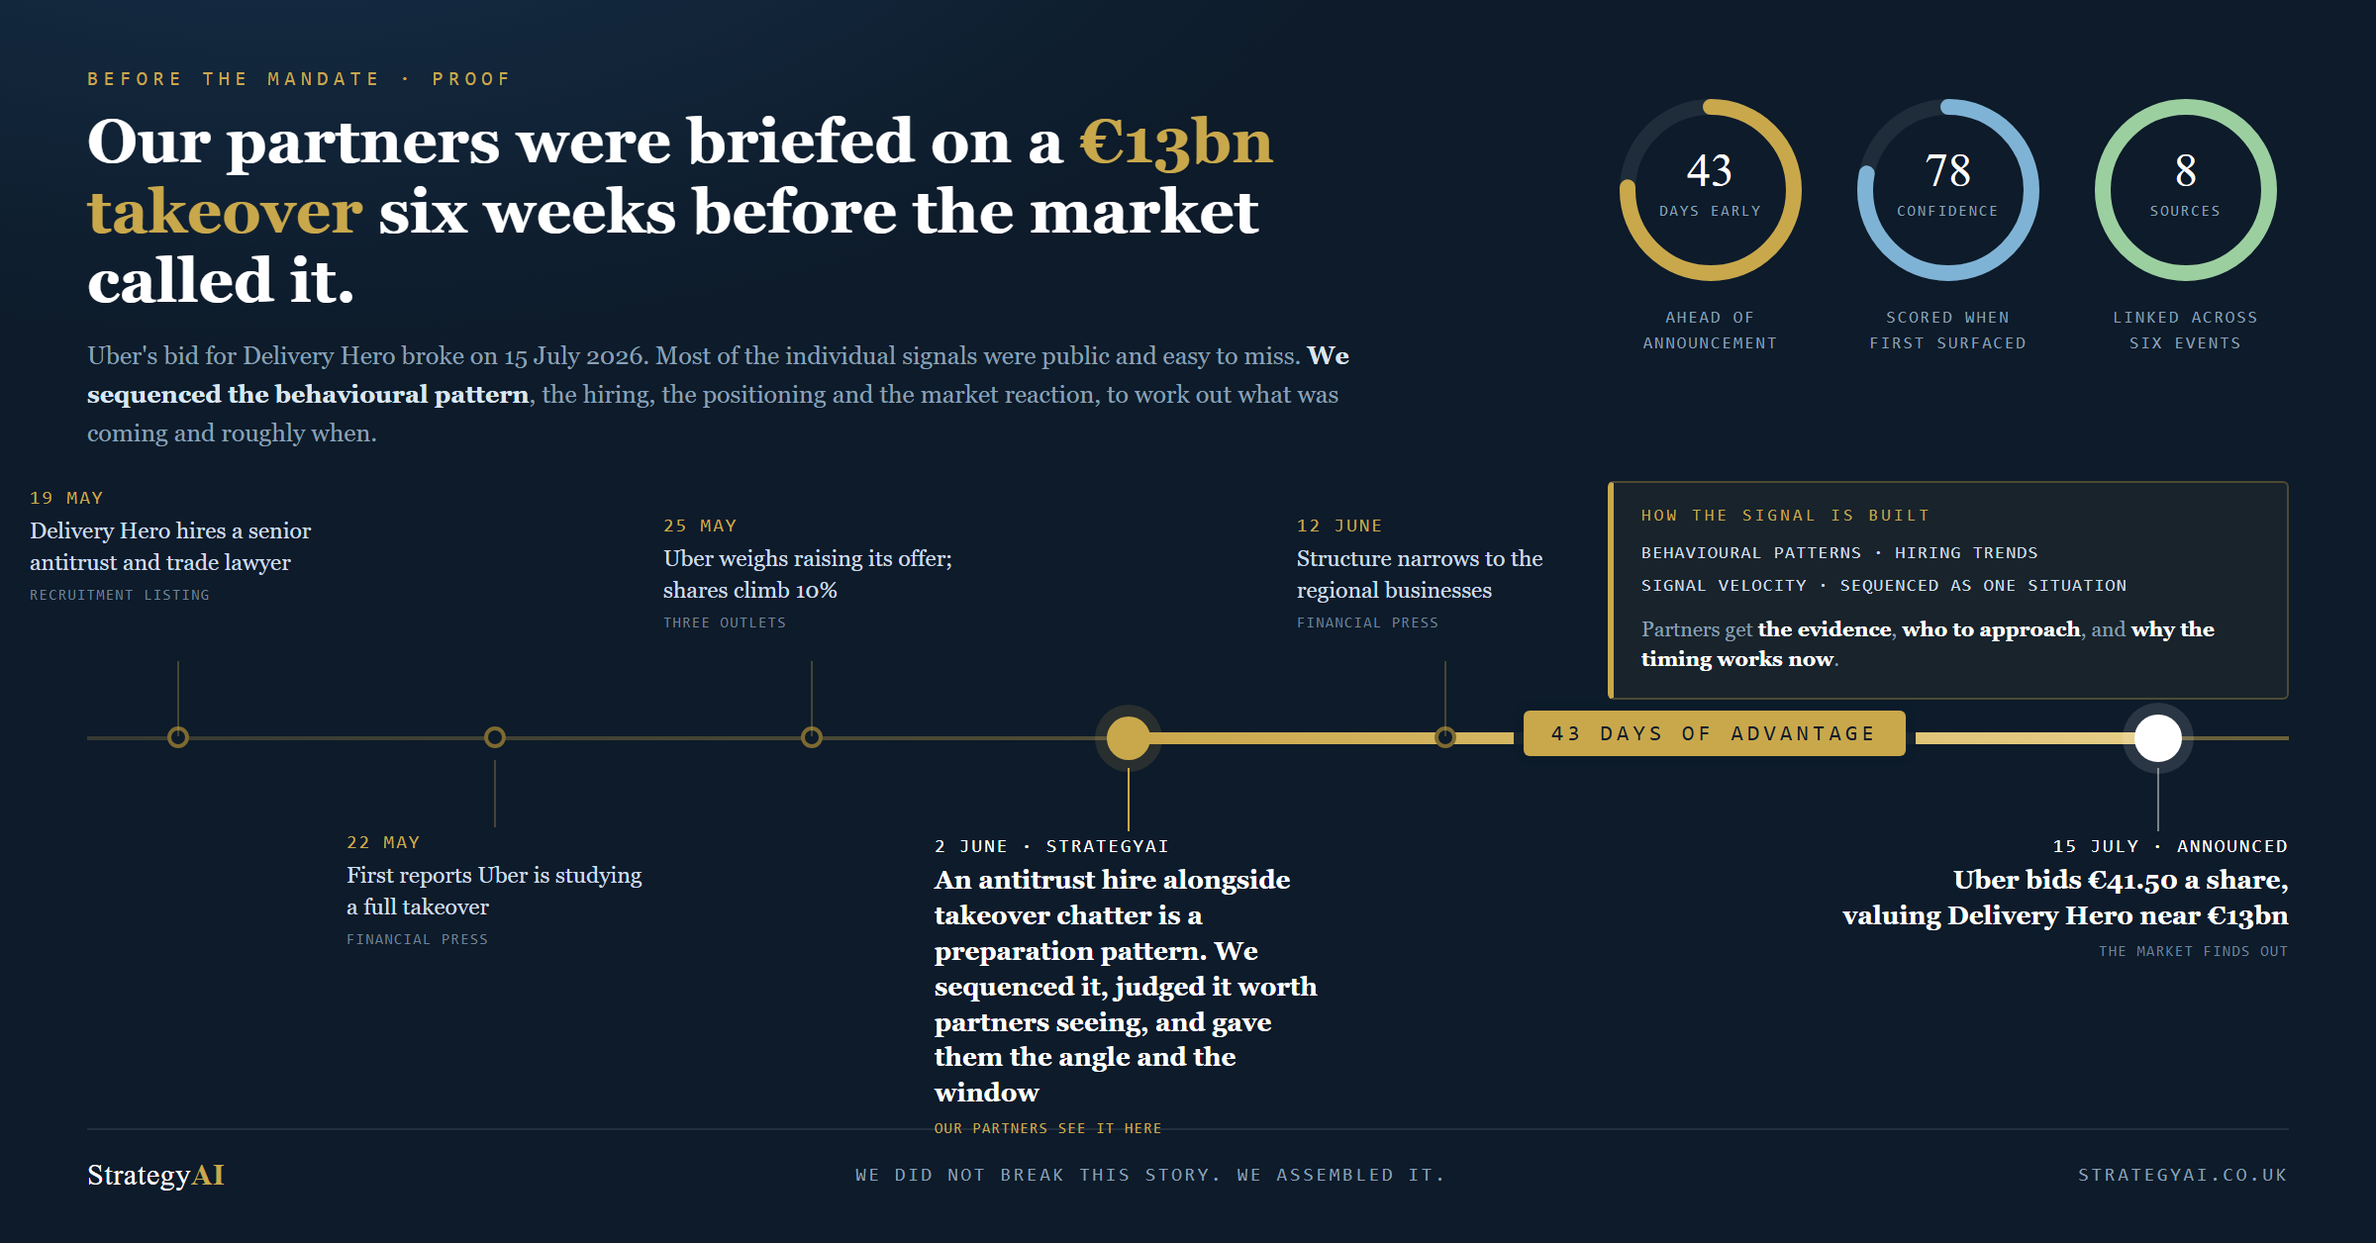
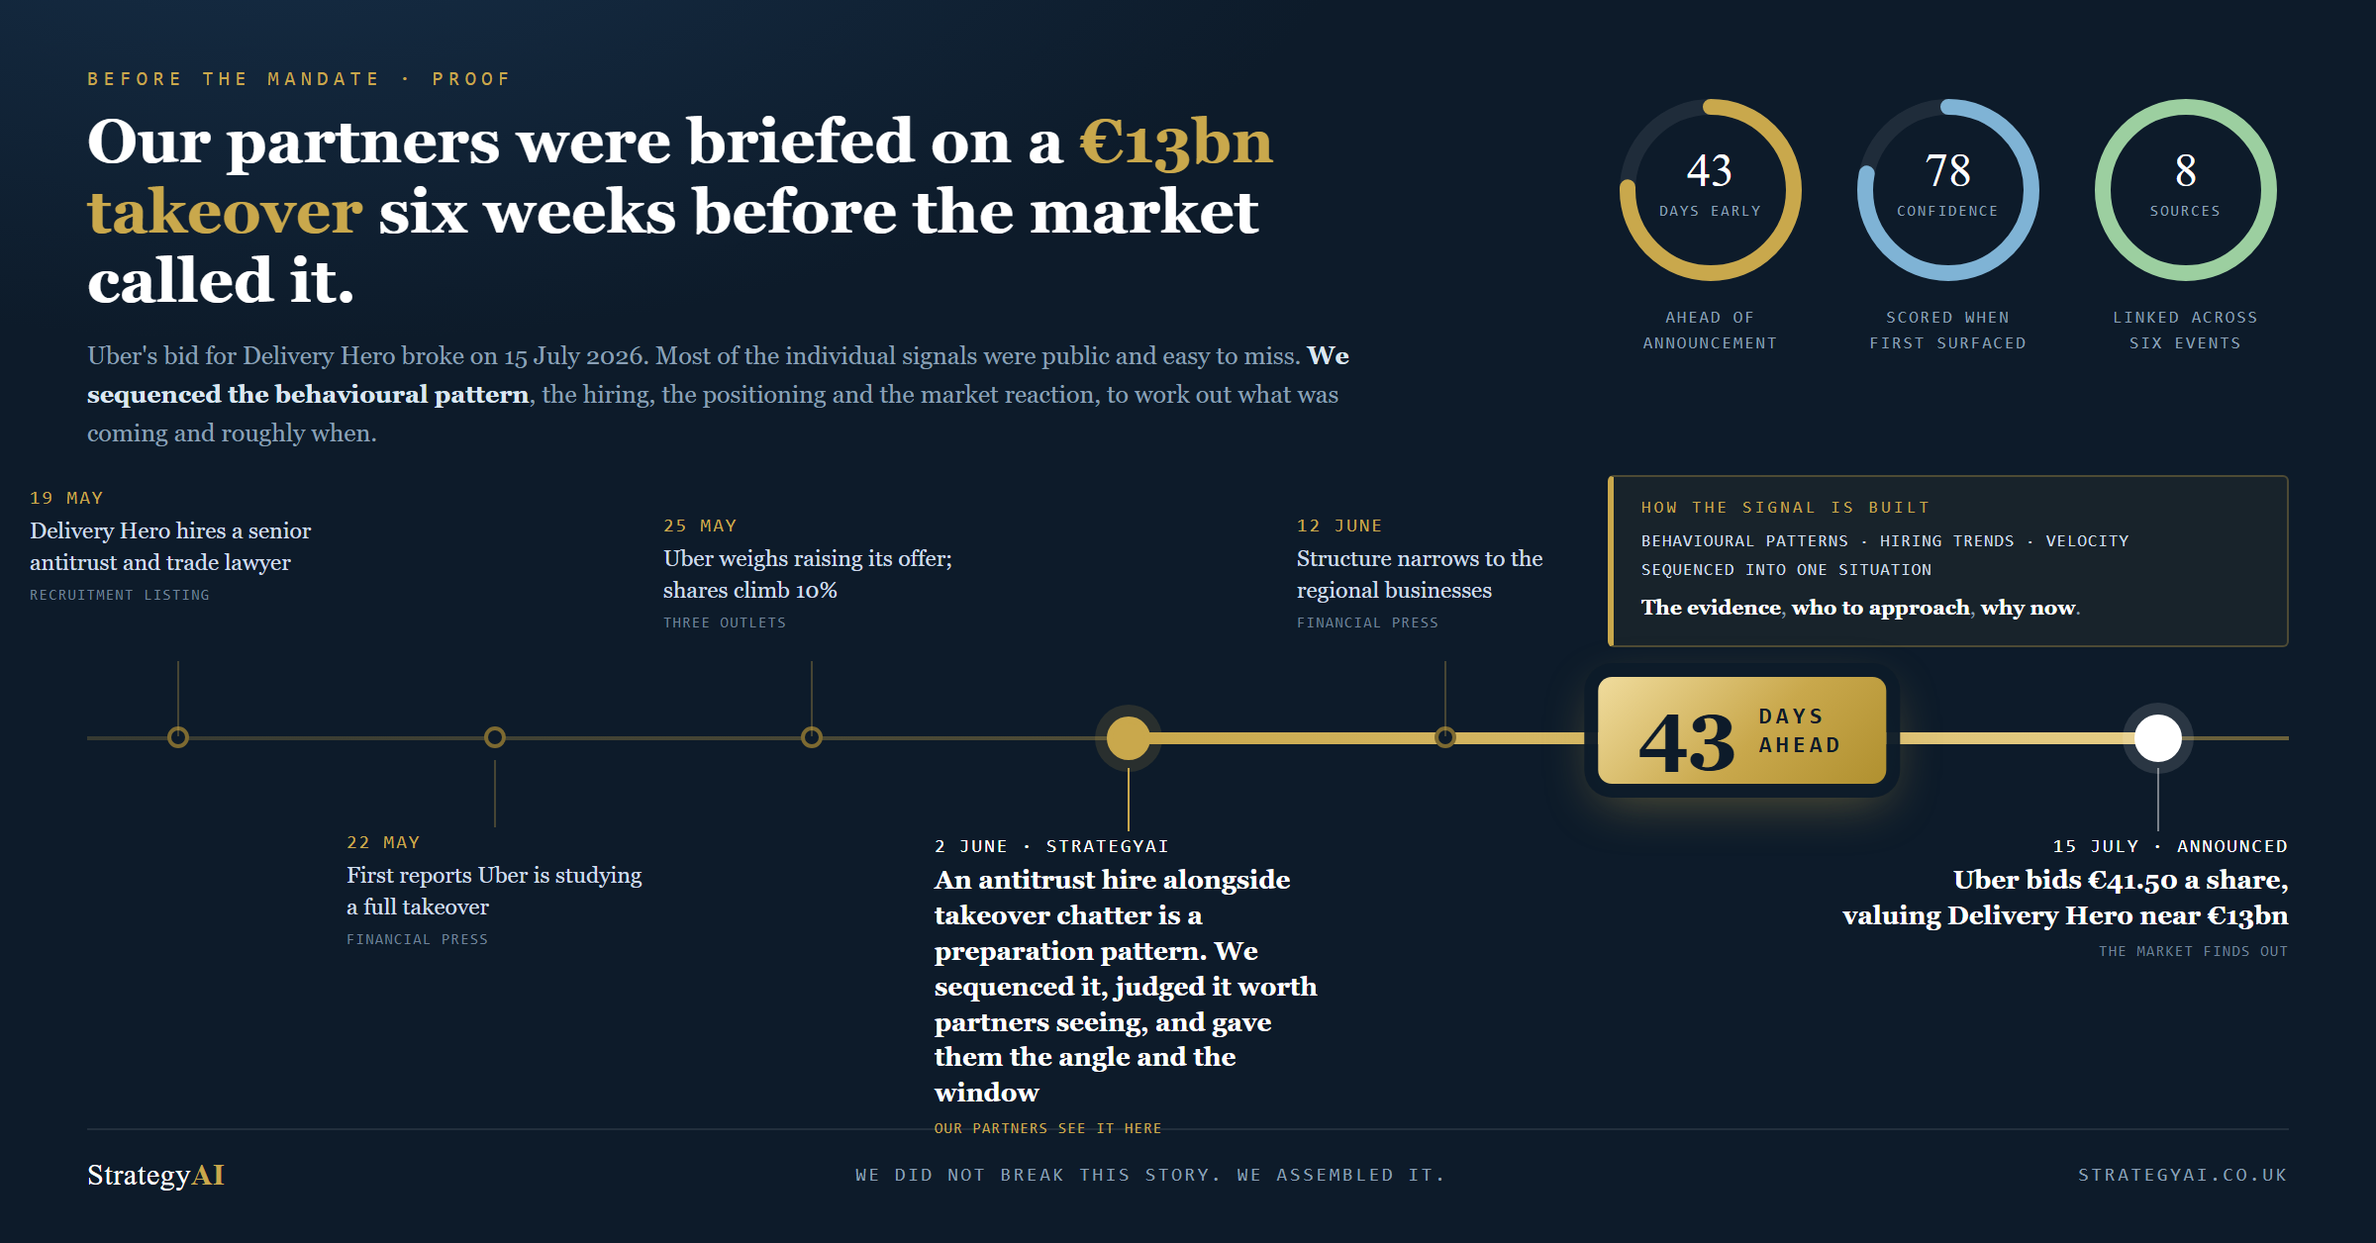
Make the lead-time badge the dominant element on all three cards
Large numeral in a gold badge sitting on the spine with a glow, so the days
of advantage is the first thing read. Method panel tightened to clear it.

Changed region(s): [[0.625, 0.3726, 0.9375, 0.6521]]

diff --git a/catches/commerzbank.html b/catches/commerzbank.html
@@ -26,10 +26,16 @@
     background:linear-gradient(90deg,rgba(201,168,76,.22),rgba(201,168,76,.5))}
   .run{position:absolute;top:370px;height:6px;border-radius:3px;
     background:linear-gradient(90deg,var(--gold),#e6cd86)}
-  .pill{position:absolute;top:359px;transform:translateX(-50%);white-space:nowrap;
-    font-family:"DM Mono",monospace;font-size:11px;letter-spacing:.2em;text-transform:uppercase;
-    color:var(--navy);background:var(--gold);padding:5px 14px;border-radius:3px;
-    box-shadow:0 0 0 5px rgba(13,27,42,.95)}
+  /* The lead-time badge is the whole point of the card, so it is sized to dominate the
+     spine. Vertical budget between the label rows is 332-412, badge occupies 342-402. */
+  .pill{position:absolute;top:342px;transform:translateX(-50%);white-space:nowrap;
+    display:flex;align-items:center;gap:11px;padding:9px 22px 9px 20px;border-radius:7px;
+    background:linear-gradient(135deg,#f0dc9d 0%,#c9a84c 55%,#b0902f 100%);color:#0d1b2a;
+    box-shadow:0 0 0 7px rgba(13,27,42,.96), 0 8px 26px rgba(201,168,76,.42)}
+  .pill .num{font-family:"Playfair Display",Georgia,serif;font-size:40px;line-height:.9;
+    font-weight:700;letter-spacing:-.01em}
+  .pill .txt{font-family:"DM Mono",monospace;font-size:11.5px;line-height:1.28;
+    letter-spacing:.19em;text-transform:uppercase;font-weight:700;text-align:left}
   .n{position:absolute;border-radius:50%;background:var(--navy);border:2px solid var(--gold-dim);
     width:11px;height:11px;top:367px;transform:translateX(-50%)}
   .n.flag{width:22px;height:22px;top:362px;background:var(--gold);border:3px solid var(--gold);
@@ -47,14 +53,15 @@
   .lbl.hero .d{color:#fff}
   /* Method panel: sits in the clear zone right of the last above-label, under the dials.
      Describes what we do, not what fired on this deal. */
-  .method{position:absolute;left:812px;top:243px;width:344px;padding:11px 14px 12px;
+  /* Kept short so its lower edge clears the lead-time badge, which starts at 335 with its ring. */
+  .method{position:absolute;left:812px;top:240px;width:344px;padding:10px 14px 11px;
     border:1px solid rgba(201,168,76,.3);border-left:3px solid var(--gold);border-radius:3px;
     background:rgba(201,168,76,.06)}
-  .method h4{margin:0 0 6px;font-family:"DM Mono",monospace;font-size:8.5px;letter-spacing:.2em;
+  .method h4{margin:0 0 5px;font-family:"DM Mono",monospace;font-size:8.5px;letter-spacing:.2em;
     text-transform:uppercase;color:var(--gold);font-weight:400}
-  .method .row{font-family:"DM Mono",monospace;font-size:9px;letter-spacing:.07em;
-    text-transform:uppercase;color:#cfdcea;line-height:1.85}
-  .method p{margin:6px 0 0;font-size:10.5px;line-height:1.45;color:var(--muted)}
+  .method .row{font-family:"DM Mono",monospace;font-size:8.6px;letter-spacing:.06em;
+    text-transform:uppercase;color:#cfdcea;line-height:1.7}
+  .method p{margin:5px 0 0;font-size:10.5px;line-height:1.4;color:var(--muted)}
   .method p b{color:#fff;font-weight:700}
   footer{position:absolute;left:44px;right:44px;bottom:26px;display:flex;
     justify-content:space-between;align-items:center;border-top:1px solid rgba(255,255,255,.09);
@@ -89,12 +96,12 @@
 </svg><p>Linked across<br>six events</p></div></div>
   <div class="method">
     <h4>How the signal is built</h4>
-    <div class="row">Behavioural patterns · Hiring trends<br>Signal velocity · Sequenced as one situation</div>
-    <p>Partners get <b>the evidence</b>, <b>who to approach</b>, and <b>why the timing works now</b>.</p>
+    <div class="row">Behavioural patterns · Hiring trends · Velocity<br>Sequenced into one situation</div>
+    <p><b>The evidence</b>, <b>who to approach</b>, <b>why now</b>.</p>
   </div>
   <div class="spine"></div>
   <div class="run" style="left:230px;width:860px"></div>
-  <div class="pill" style="left:905px">38 days of advantage</div>
+  <div class="pill" style="left:905px"><span class="num">38</span><span class="txt">days<br>ahead</span></div>
   <div class="n" style="left:105px"></div>
   <div class="stem" style="left:105px;top:334px;height:38px"></div>
   <div class="lbl" style="left:105px;top:246px"><div class="d">20 MAY</div><div class="t">Commerzbank's chief executive publicly rebuffs the approach</div><div class="s" style="">Financial press</div></div>

diff --git a/catches/easyjet.html b/catches/easyjet.html
@@ -26,10 +26,16 @@
     background:linear-gradient(90deg,rgba(201,168,76,.22),rgba(201,168,76,.5))}
   .run{position:absolute;top:370px;height:6px;border-radius:3px;
     background:linear-gradient(90deg,var(--gold),#e6cd86)}
-  .pill{position:absolute;top:359px;transform:translateX(-50%);white-space:nowrap;
-    font-family:"DM Mono",monospace;font-size:11px;letter-spacing:.2em;text-transform:uppercase;
-    color:var(--navy);background:var(--gold);padding:5px 14px;border-radius:3px;
-    box-shadow:0 0 0 5px rgba(13,27,42,.95)}
+  /* The lead-time badge is the whole point of the card, so it is sized to dominate the
+     spine. Vertical budget between the label rows is 332-412, badge occupies 342-402. */
+  .pill{position:absolute;top:342px;transform:translateX(-50%);white-space:nowrap;
+    display:flex;align-items:center;gap:11px;padding:9px 22px 9px 20px;border-radius:7px;
+    background:linear-gradient(135deg,#f0dc9d 0%,#c9a84c 55%,#b0902f 100%);color:#0d1b2a;
+    box-shadow:0 0 0 7px rgba(13,27,42,.96), 0 8px 26px rgba(201,168,76,.42)}
+  .pill .num{font-family:"Playfair Display",Georgia,serif;font-size:40px;line-height:.9;
+    font-weight:700;letter-spacing:-.01em}
+  .pill .txt{font-family:"DM Mono",monospace;font-size:11.5px;line-height:1.28;
+    letter-spacing:.19em;text-transform:uppercase;font-weight:700;text-align:left}
   .n{position:absolute;border-radius:50%;background:var(--navy);border:2px solid var(--gold-dim);
     width:11px;height:11px;top:367px;transform:translateX(-50%)}
   .n.flag{width:22px;height:22px;top:362px;background:var(--gold);border:3px solid var(--gold);
@@ -47,14 +53,15 @@
   .lbl.hero .d{color:#fff}
   /* Method panel: sits in the clear zone right of the last above-label, under the dials.
      Describes what we do, not what fired on this deal. */
-  .method{position:absolute;left:812px;top:243px;width:344px;padding:11px 14px 12px;
+  /* Kept short so its lower edge clears the lead-time badge, which starts at 335 with its ring. */
+  .method{position:absolute;left:812px;top:240px;width:344px;padding:10px 14px 11px;
     border:1px solid rgba(201,168,76,.3);border-left:3px solid var(--gold);border-radius:3px;
     background:rgba(201,168,76,.06)}
-  .method h4{margin:0 0 6px;font-family:"DM Mono",monospace;font-size:8.5px;letter-spacing:.2em;
+  .method h4{margin:0 0 5px;font-family:"DM Mono",monospace;font-size:8.5px;letter-spacing:.2em;
     text-transform:uppercase;color:var(--gold);font-weight:400}
-  .method .row{font-family:"DM Mono",monospace;font-size:9px;letter-spacing:.07em;
-    text-transform:uppercase;color:#cfdcea;line-height:1.85}
-  .method p{margin:6px 0 0;font-size:10.5px;line-height:1.45;color:var(--muted)}
+  .method .row{font-family:"DM Mono",monospace;font-size:8.6px;letter-spacing:.06em;
+    text-transform:uppercase;color:#cfdcea;line-height:1.7}
+  .method p{margin:5px 0 0;font-size:10.5px;line-height:1.4;color:var(--muted)}
   .method p b{color:#fff;font-weight:700}
   footer{position:absolute;left:44px;right:44px;bottom:26px;display:flex;
     justify-content:space-between;align-items:center;border-top:1px solid rgba(255,255,255,.09);
@@ -89,12 +96,12 @@
 </svg><p>Linked across<br>six events</p></div></div>
   <div class="method">
     <h4>How the signal is built</h4>
-    <div class="row">Behavioural patterns · Hiring trends<br>Signal velocity · Sequenced as one situation</div>
-    <p>Partners get <b>the evidence</b>, <b>who to approach</b>, and <b>why the timing works now</b>.</p>
+    <div class="row">Behavioural patterns · Hiring trends · Velocity<br>Sequenced into one situation</div>
+    <p><b>The evidence</b>, <b>who to approach</b>, <b>why now</b>.</p>
   </div>
   <div class="spine"></div>
   <div class="run" style="left:175px;width:915px"></div>
-  <div class="pill" style="left:900px">36 days of advantage</div>
+  <div class="pill" style="left:900px"><span class="num">36</span><span class="txt">days<br>ahead</span></div>
   <div class="n" style="left:105px"></div>
   <div class="stem" style="left:105px;top:334px;height:38px"></div>
   <div class="lbl" style="left:105px;top:246px"><div class="d">30 MAY</div><div class="t">A US private credit firm is reported to be circling</div><div class="s" style="">Financial press</div></div>

diff --git a/catches/delivery-hero-linkedin.html b/catches/delivery-hero-linkedin.html
@@ -37,10 +37,14 @@
     background:linear-gradient(90deg,rgba(201,168,76,.22),rgba(201,168,76,.5))}
   .run{position:absolute;top:370px;height:6px;border-radius:3px;
     background:linear-gradient(90deg,var(--gold),#e6cd86)}
-  .pill{position:absolute;top:359px;transform:translateX(-50%);white-space:nowrap;
-    font-family:"DM Mono",monospace;font-size:11px;letter-spacing:.2em;text-transform:uppercase;
-    color:var(--navy);background:var(--gold);padding:5px 14px;border-radius:3px;
-    box-shadow:0 0 0 5px rgba(13,27,42,.95)}
+  .pill{position:absolute;top:342px;transform:translateX(-50%);white-space:nowrap;
+    display:flex;align-items:center;gap:11px;padding:9px 22px 9px 20px;border-radius:7px;
+    background:linear-gradient(135deg,#f0dc9d 0%,#c9a84c 55%,#b0902f 100%);color:#0d1b2a;
+    box-shadow:0 0 0 7px rgba(13,27,42,.96), 0 8px 26px rgba(201,168,76,.42)}
+  .pill .num{font-family:"Playfair Display",Georgia,serif;font-size:40px;line-height:.9;
+    font-weight:700;letter-spacing:-.01em}
+  .pill .txt{font-family:"DM Mono",monospace;font-size:11.5px;line-height:1.28;
+    letter-spacing:.19em;text-transform:uppercase;font-weight:700;text-align:left}
 
   .n{position:absolute;border-radius:50%;background:var(--navy);border:2px solid var(--gold-dim);
     width:11px;height:11px;top:367px;transform:translateX(-50%)}
@@ -59,14 +63,14 @@
   .lbl.hero .t{font-size:13px;color:#fff;font-weight:600;line-height:1.38}
   .lbl.hero .d{color:#fff}
 
-  .method{position:absolute;left:812px;top:243px;width:344px;padding:11px 14px 12px;
+  .method{position:absolute;left:812px;top:240px;width:344px;padding:10px 14px 11px;
     border:1px solid rgba(201,168,76,.3);border-left:3px solid var(--gold);border-radius:3px;
     background:rgba(201,168,76,.06)}
-  .method h4{margin:0 0 6px;font-family:"DM Mono",monospace;font-size:8.5px;letter-spacing:.2em;
+  .method h4{margin:0 0 5px;font-family:"DM Mono",monospace;font-size:8.5px;letter-spacing:.2em;
     text-transform:uppercase;color:var(--gold);font-weight:400}
-  .method .row{font-family:"DM Mono",monospace;font-size:9px;letter-spacing:.07em;
-    text-transform:uppercase;color:#cfdcea;line-height:1.85}
-  .method p{margin:6px 0 0;font-size:10.5px;line-height:1.45;color:var(--muted)}
+  .method .row{font-family:"DM Mono",monospace;font-size:8.6px;letter-spacing:.06em;
+    text-transform:uppercase;color:#cfdcea;line-height:1.7}
+  .method p{margin:5px 0 0;font-size:10.5px;line-height:1.4;color:var(--muted)}
   .method p b{color:#fff;font-weight:700}
   footer{position:absolute;left:44px;right:44px;bottom:26px;display:flex;
     justify-content:space-between;align-items:center;
@@ -120,13 +124,13 @@
 
   <div class="method">
     <h4>How the signal is built</h4>
-    <div class="row">Behavioural patterns · Hiring trends<br>Signal velocity · Sequenced as one situation</div>
-    <p>Partners get <b>the evidence</b>, <b>who to approach</b>, and <b>why the timing works now</b>.</p>
+    <div class="row">Behavioural patterns · Hiring trends · Velocity<br>Sequenced into one situation</div>
+    <p><b>The evidence</b>, <b>who to approach</b>, <b>why now</b>.</p>
   </div>
 
   <div class="spine"></div>
   <div class="run" style="left:570px;width:520px"></div>
-  <div class="pill" style="left:866px">43 days of advantage</div>
+  <div class="pill" style="left:880px"><span class="num">43</span><span class="txt">days<br>ahead</span></div>
 
   <!-- ABOVE the spine -->
   <div class="n" style="left:90px"></div>

diff --git a/catches/build_cards.py b/catches/build_cards.py
@@ -38,10 +38,16 @@ TPL = """<title>StrategyAI · {title_tag}</title>
     background:linear-gradient(90deg,rgba(201,168,76,.22),rgba(201,168,76,.5))}}
   .run{{position:absolute;top:370px;height:6px;border-radius:3px;
     background:linear-gradient(90deg,var(--gold),#e6cd86)}}
-  .pill{{position:absolute;top:359px;transform:translateX(-50%);white-space:nowrap;
-    font-family:"DM Mono",monospace;font-size:11px;letter-spacing:.2em;text-transform:uppercase;
-    color:var(--navy);background:var(--gold);padding:5px 14px;border-radius:3px;
-    box-shadow:0 0 0 5px rgba(13,27,42,.95)}}
+  /* The lead-time badge is the whole point of the card, so it is sized to dominate the
+     spine. Vertical budget between the label rows is 332-412, badge occupies 342-402. */
+  .pill{{position:absolute;top:342px;transform:translateX(-50%);white-space:nowrap;
+    display:flex;align-items:center;gap:11px;padding:9px 22px 9px 20px;border-radius:7px;
+    background:linear-gradient(135deg,#f0dc9d 0%,#c9a84c 55%,#b0902f 100%);color:#0d1b2a;
+    box-shadow:0 0 0 7px rgba(13,27,42,.96), 0 8px 26px rgba(201,168,76,.42)}}
+  .pill .num{{font-family:"Playfair Display",Georgia,serif;font-size:40px;line-height:.9;
+    font-weight:700;letter-spacing:-.01em}}
+  .pill .txt{{font-family:"DM Mono",monospace;font-size:11.5px;line-height:1.28;
+    letter-spacing:.19em;text-transform:uppercase;font-weight:700;text-align:left}}
   .n{{position:absolute;border-radius:50%;background:var(--navy);border:2px solid var(--gold-dim);
     width:11px;height:11px;top:367px;transform:translateX(-50%)}}
   .n.flag{{width:22px;height:22px;top:362px;background:var(--gold);border:3px solid var(--gold);
@@ -59,14 +65,15 @@ TPL = """<title>StrategyAI · {title_tag}</title>
   .lbl.hero .d{{color:#fff}}
   /* Method panel: sits in the clear zone right of the last above-label, under the dials.
      Describes what we do, not what fired on this deal. */
-  .method{{position:absolute;left:812px;top:243px;width:344px;padding:11px 14px 12px;
+  /* Kept short so its lower edge clears the lead-time badge, which starts at 335 with its ring. */
+  .method{{position:absolute;left:812px;top:240px;width:344px;padding:10px 14px 11px;
     border:1px solid rgba(201,168,76,.3);border-left:3px solid var(--gold);border-radius:3px;
     background:rgba(201,168,76,.06)}}
-  .method h4{{margin:0 0 6px;font-family:"DM Mono",monospace;font-size:8.5px;letter-spacing:.2em;
+  .method h4{{margin:0 0 5px;font-family:"DM Mono",monospace;font-size:8.5px;letter-spacing:.2em;
     text-transform:uppercase;color:var(--gold);font-weight:400}}
-  .method .row{{font-family:"DM Mono",monospace;font-size:9px;letter-spacing:.07em;
-    text-transform:uppercase;color:#cfdcea;line-height:1.85}}
-  .method p{{margin:6px 0 0;font-size:10.5px;line-height:1.45;color:var(--muted)}}
+  .method .row{{font-family:"DM Mono",monospace;font-size:8.6px;letter-spacing:.06em;
+    text-transform:uppercase;color:#cfdcea;line-height:1.7}}
+  .method p{{margin:5px 0 0;font-size:10.5px;line-height:1.4;color:var(--muted)}}
   .method p b{{color:#fff;font-weight:700}}
   footer{{position:absolute;left:44px;right:44px;bottom:26px;display:flex;
     justify-content:space-between;align-items:center;border-top:1px solid rgba(255,255,255,.09);
@@ -83,12 +90,12 @@ TPL = """<title>StrategyAI · {title_tag}</title>
   <div class="dials">{dials}</div>
   <div class="method">
     <h4>How the signal is built</h4>
-    <div class="row">Behavioural patterns · Hiring trends<br>Signal velocity · Sequenced as one situation</div>
-    <p>Partners get <b>the evidence</b>, <b>who to approach</b>, and <b>why the timing works now</b>.</p>
+    <div class="row">Behavioural patterns · Hiring trends · Velocity<br>Sequenced into one situation</div>
+    <p><b>The evidence</b>, <b>who to approach</b>, <b>why now</b>.</p>
   </div>
   <div class="spine"></div>
   <div class="run" style="left:{run_from}px;width:{run_w}px"></div>
-  <div class="pill" style="left:{pill_x}px">{pill}</div>
+  <div class="pill" style="left:{pill_x}px"><span class="num">{pill_num}</span><span class="txt">{pill_txt}</span></div>
   {events}
   <footer>
     <div class="wm">Strategy<b>AI</b></div>
